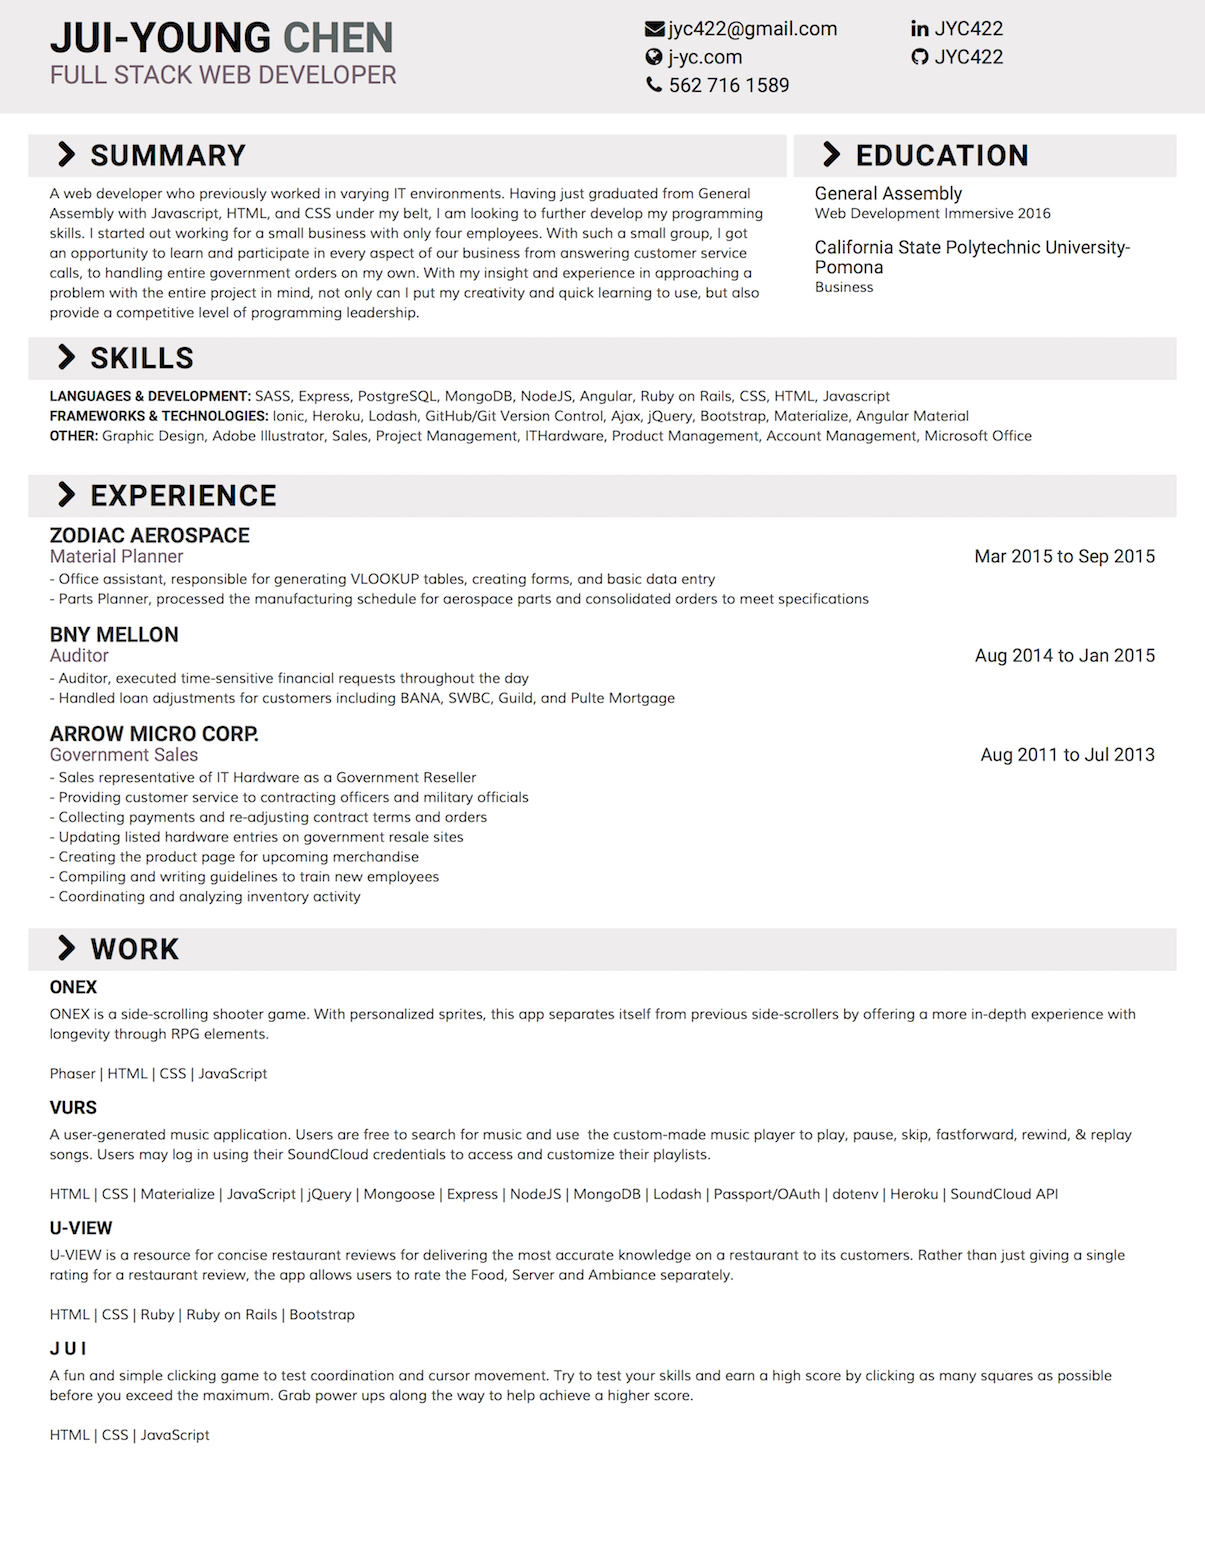
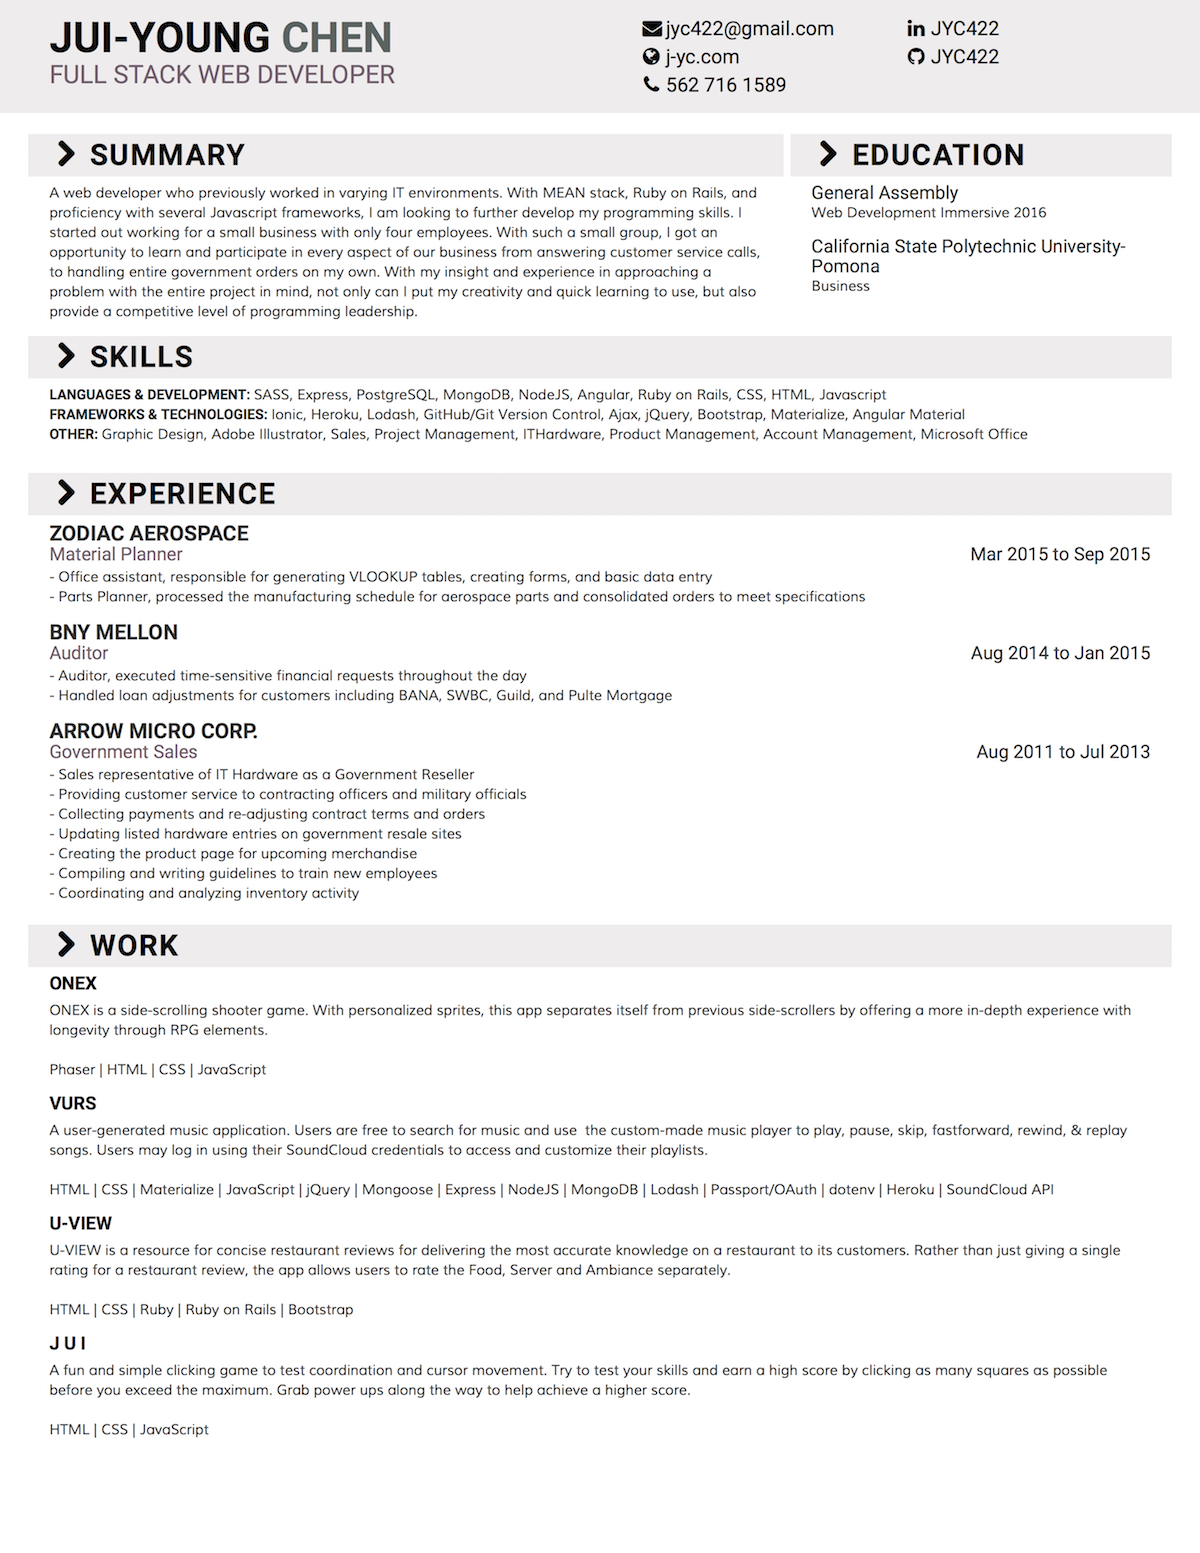
made more responsive

diff --git a/index.html b/index.html
@@ -25,20 +25,23 @@
           <div class="nav-wrapper black">
             <a href="#home-ref" class="brand-logo left">J Y C</a>
             <ul id="nav-mobile" class="right">
-              <li><a href="#about-ref">About</a></li>
-              <li><a href="#skill-ref">Skills</a></li>
-              <li><a href="#work-ref">Work</a></li>
-              <li><a href="#contact-ref">Contact</a></li>
+              <li><a href="#about-ref">ABOUT</a></li>
+              <li><a href="#skill-ref">TECH</a></li>
+              <li><a href="#work-ref">WORK</a></li>
+              <li><a href="#contact-ref">CONTACT</a></li>
             </ul>
           </div>
         </nav>
       </div>
-      <div id="home-content" class="section">
-        <div id="down" class="btn waves-effect" href="#about-ref">
-          <a id="down-icon" class="fa fa-angle-down fa-3x" aria-hidden="true"></a>
-        </div>
-      </div>
   </div>
+
+  <div id="intro">
+    <img src="css/assets/parallax1.jpg">
+    <div id="down" class="btn waves-effect" href="#about-ref">
+      <a id="down-icon" class="fa fa-angle-down fa-3x" aria-hidden="true"></a>
+    </div>
+  </div>
+
 
   <!-- ABOUT -->
 
@@ -47,7 +50,7 @@
         <div class="row">
           <h2>ABOUT ME</h2>
           <hr>
-          <p id="about-content">A web developer who previously worked in varying IT environments. Having just graduated from General Assembly with Javascript, HTML, and CSS under my belt, I am looking to further develop my programming skills. I started out working for a small business with only four employees. With such a small group, I got an opportunity to learn and participate in every aspect of our business from answering customer service calls, to handling entire government orders on my own. With my insight and experience in approaching a problem with the entire project in mind, not only can I put my creativity and quick learning to use, but also provide a competitive level of programming leadership.</p>
+          <p id="about-content">A web developer who previously worked in varying IT environments. With MEAN stack, Ruby on Rails, and proficiency with several Javascript frameworks, I am looking to further develop my programming skills. I started out working for a small business with only four employees. With such a small group, I got an opportunity to learn and participate in every aspect of our business from answering customer service calls, to handling entire government orders on my own. With my insight and experience in approaching a problem with the entire project in mind, not only can I put my creativity and quick learning to use, but also provide a competitive level of programming leadership.</p>
         </div>
       </div>
     </div>
@@ -97,7 +100,7 @@
         <ul id="work-content">
           <li id="work-item">
             <div id="work1">
-              <a href="http://jyc422.github.io/JUI/">
+              <a href="https://github.com/JYC422/JUI">
                 <img id="work-img" class="hoverable" src="css/assets/work1.jpg">
               </a>
             </div>
@@ -109,7 +112,7 @@
           </li>
           <li id="work-item">
             <div id="work1">
-              <a href="https://rocky-crag-85394.herokuapp.com/">
+              <a href="https://github.com/JYC422/UVIEW">
                 <img id="work-img" class="hoverable" src="css/assets/work2.jpg">
               </a>
             </div>
@@ -121,14 +124,14 @@
           </li>
           <li id="work-item">
             <div id="work1">
-              <a href="https://mysterious-garden-27618.herokuapp.com/">
+              <a href="https://github.com/JYC422/project3">
                 <img id="work-img" class="hoverable" src="css/assets/work3.jpg">
               </a>
             </div>
             <div id="work2">
               <div id="work-name">VURS</div>
               <p>A user-generated music application. Users are free to search for music and use  the custom-made music player to play, pause, skip, fastforward, rewind, & replay songs. Users may log in using their SoundCloud credentials to access and customize their playlists.</p>
-              <p>HTML | CSS | Materialize | JavaScript | jQuery | Mongoose | Express | NodeJS | MongoDB | Lodash | Passport/OAuth | dotenv | Heroku | SoundCloud API</p>
+              <p>Materialize | JavaScript | jQuery | Mongoose | Express | NodeJS | MongoDB | Lodash | Passport/OAuth | Heroku | SoundCloud API</p>
             </div>
           </li>
           <li id="work-item">
@@ -148,7 +151,6 @@
     </div>
   </div>
 
-
   <div class="parallax-container">
     <div class="parallax"><img src="css/assets/parallax2.jpg"></div>
   </div>
@@ -160,7 +162,7 @@
       <ul id="contact-list">
         <li><a class="btn-floating btn-large hoverable black fa fa-github fa-2x" aria-hidden="true" href="https://github.com/JYC422"></a></li>
         <li><a class="btn-floating btn-large hoverable black fa fa-linkedin fa-2x" aria-hidden="true" href="https://www.linkedin.com/in/jyc422"></a></li>
-        <li><a class="btn-floating btn-large hoverable black fa fa-twitter fa-2x" aria-hidden="true" href="https://www.twitter.com/JYC422"></a></li>
+        <li><a id="backtotop" class="btn-floating btn-large hoverable black fa fa-angle-up fa-2x" aria-hidden="true" href="#home-ref"></a></li>
         <li><a class="btn-floating btn-large hoverable black fa fa-envelope fa-2x" aria-hidden="true" href="mailto:jyc422@gmail.com"></a></li>
         <li><a class="btn-floating btn-large hoverable black fa fa-file-text-o fa-2x modal-trigger" href="#resume"></a></li>
         <div id="resume" class="modal">

diff --git a/css/main.css b/css/main.css
@@ -7,17 +7,14 @@ h2 {
   font-family: lombok;
 }
 
-#home-ref {
-  background-image: url(assets/parallax1.jpg);
-  background-position: center;
-  background-repeat: no-repeat;
-  background-size: cover;
-  background-color: #464646;
-  height: 780px;
+.parallax-container {
+  height: 50px;
+  max-height: 200px;
 }
 
-#about-content {
-  text-align: justify;
+.brand-logo {
+  font-family: lombok;
+  margin-left: 20px;
 }
 
 #about-ref,
@@ -27,35 +24,33 @@ h2 {
   padding-bottom: 70px;
 }
 
-.parallax-container {
-  height: 50px;
-  max-height: 250px;
+#intro-section {
+  padding: 0;
+  margin: auto;
+  text-align: center;
 }
 
-.parallaxhead {
-  max-height: 400px;
+#intro img {
+  background: url(assets/parallax1.jpg) no-repeat center center fixed;
+  background-size: cover;
+  max-width: 100%;
 }
 
-.brand-logo {
-  font-family: lombok;
-  margin-left: 20px;
+#about-content {
+  text-align: justify;
 }
 
 #down {
   height: 40px;
   background: rgba(100,100,100,0.7);
-  position: absolute;
-  bottom: 0;
+  position: relative;
+  bottom: 30px;
   text-align: center;
-  width: 100%;
+  min-width: 100%;
 }
 
 #down-icon {
   color: black;
-}
-
-#section-head {
-  font-size: 30px;
 }
 
 #techicon {
@@ -81,7 +76,7 @@ h2 {
 #work2 {
   float: right;
   width: 600px;
-  padding: 40px 20px 20px 20px;
+  padding: 5px 20px 5px 20px;
 }
 
 #work-img {

diff --git a/main.js b/main.js
@@ -19,3 +19,11 @@ $('#down').click(function () {
  }, 500);
  return false;
 });
+
+$('#backtotop').click(function () {
+ var $href = $(this).attr('href');
+ $('body').stop().animate({
+   scrollTop: $($href).offset().top
+ }, 500);
+ return false;
+});
